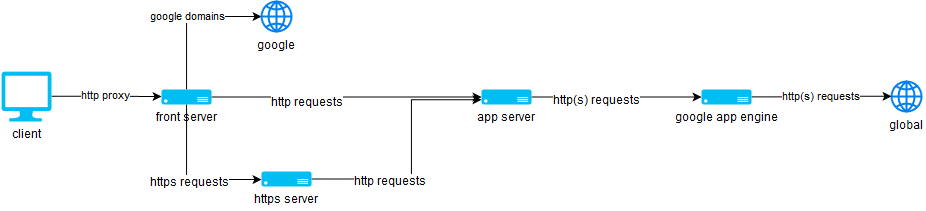
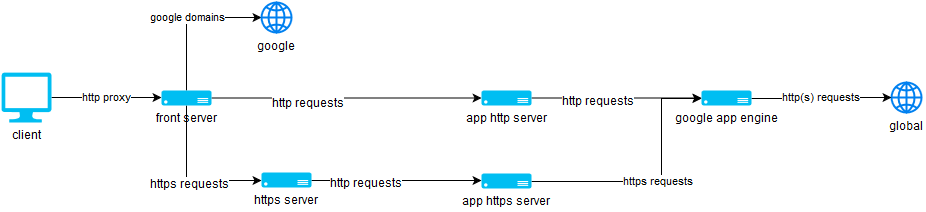
separate app server to http and https servers

diff --git a/front_server.py b/front_server.py
@@ -9,8 +9,13 @@ class HopeRequestHandler(SocketServer.BaseRequestHandler):
     def handle(self):
         # check https
         data = self.request.recv(4096)
-        method, url, others = re.split(r'\s+', data, maxsplit=2)
-        domain, port = re.split(r':', url, maxsplit=2)
+        try:
+            method, url, others = re.split(r'\s+', data, maxsplit=2)
+            domain, port = re.split(r':', url, maxsplit=2)
+        except ValueError:
+            method = None
+            domain = None
+
         if method == 'CONNECT':
             self.request.send('HTTP/1.1 200 OK\r\n')
             self.request.send('Content-Length: 0\r\n')
@@ -23,7 +28,7 @@ class HopeRequestHandler(SocketServer.BaseRequestHandler):
                 s.sendall("%s%s" % (str(len(domain)).zfill(4), domain))
         else:
             s = socket.socket()
-            s.connect(settings.app_server_address)
+            s.connect(settings.app_http_server_address)
             s.sendall(data)
 
         HopeTunnel.tunnelling(self.request, s)

diff --git a/HopeLocal.py b/HopeLocal.py
@@ -21,7 +21,7 @@ def agent(path):
         return 'Hope app server'
 
     app_id = random.choice(settings.app_ids)
-    headers = {key: value for key, value in request.headers.items() if len(value) > 0 and key.lower() != 'hope-scheme'}
+    headers = {key: value for key, value in request.headers.items() if len(value) > 0}
     headers['target_url'] = quote_url()
     headers["Host"] = app_id + ".appspot.com"
     cookies = dict(request.cookies)
@@ -45,7 +45,7 @@ def log_error(error):
 
 
 def quote_url():
-    if "hope-scheme" in request.headers and request.headers["hope-scheme"] == 'https':
+    if app.config["SCHEME"] == 'https':
         url = request.url.replace("http", "https")
     else:
         url = request.url

diff --git a/https_server.py b/https_server.py
@@ -15,13 +15,7 @@ class HopeHttpsRequestHandler(SocketServer.BaseRequestHandler):
         setup_certs(domain)
         ssl_request = ssl.wrap_socket(self.request, certfile=cert_file, keyfile=cert_file, server_side=True)
         s = socket.socket()
-        s.connect(settings.app_server_address)
-
-        # tell app server this is a https request
-        data = ssl_request.recv(4096)
-        index = data.find('\r\n') + 2
-        s.sendall(data[:index] + "hope-scheme: https\r\n" + data[index:])
-
+        s.connect(settings.app_https_server_address)
         HopeTunnel.tunnelling(ssl_request, s)
 
 

diff --git a/settings.py b/settings.py
@@ -5,8 +5,9 @@ app_ids = ["gae0x0006"]
 google_ip = "59.18.45.59"
 debug = False
 front_server_address = ('127.0.0.1', 5000)
-https_server_address = ('127.0.0.1', 5001)
-app_server_address = ('127.0.0.1', 5002)
+https_server_address = ('127.0.0.1', 5100)
+app_http_server_address = ('127.0.0.1', 5200)
+app_https_server_address = ('127.0.0.1', 5300)
 app_dir = os.path.dirname(os.path.realpath(__file__))
 
 google_domains = [

diff --git a/app_https_server.py b/app_https_server.py
@@ -1,0 +1,7 @@
+from waitress import serve
+from HopeLocal import app, setup_google_connection
+import settings
+
+app.config['SCHEME'] = 'https'
+setup_google_connection()
+serve(app, host=settings.app_https_server_address[0], port=settings.app_https_server_address[1])

diff --git a/app_http_server.py b/app_http_server.py
@@ -1,0 +1,7 @@
+from waitress import serve
+from HopeLocal import app, setup_google_connection
+import settings
+
+app.config['SCHEME'] = 'http'
+setup_google_connection()
+serve(app, host=settings.app_http_server_address[0], port=settings.app_http_server_address[1])
